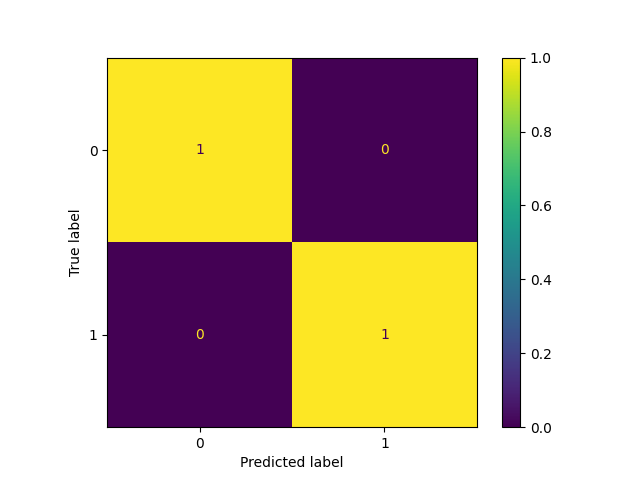
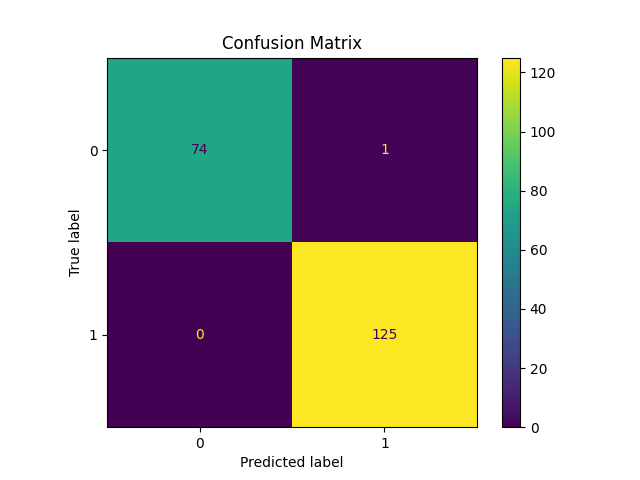
added AML visualizations

diff --git a/train_model.py b/train_model.py
@@ -1,9 +1,19 @@
 import pandas as pd
 import numpy as np
 import pickle
+import matplotlib.pyplot as plt
+import seaborn as sns
 
 from sklearn.model_selection import train_test_split
-from sklearn.metrics import accuracy_score
+from sklearn.metrics import (
+    accuracy_score,
+    confusion_matrix,
+    ConfusionMatrixDisplay,
+    RocCurveDisplay,
+    precision_score,
+    recall_score,
+    f1_score
+)
 
 # MODELS
 from sklearn.linear_model import LogisticRegression
@@ -37,7 +47,10 @@ y = data["risk"]
 
 # ---------------- SPLIT ----------------
 X_train, X_test, y_train, y_test = train_test_split(
-    X, y, test_size=0.2, random_state=42
+    X,
+    y,
+    test_size=0.2,
+    random_state=42
 )
 
 # ---------------- MODELS ----------------
@@ -49,27 +62,79 @@ models = {
 
 best_model = None
 best_accuracy = 0
+best_model_name = ""
 
-print("\nMODEL ACCURACIES:\n")
+print("\n================ MODEL ACCURACIES ================\n")
 
 # ---------------- TRAIN & TEST ----------------
 for name, model in models.items():
 
+    # TRAIN
     model.fit(X_train, y_train)
 
+    # PREDICT
     y_pred = model.predict(X_test)
 
+    # METRICS
     acc = accuracy_score(y_test, y_pred)
+    precision = precision_score(y_test, y_pred)
+    recall = recall_score(y_test, y_pred)
+    f1 = f1_score(y_test, y_pred)
 
-    print(f"{name}: {acc:.4f}")
+    print(f"\n{name}")
+    print(f"Accuracy : {acc:.4f}")
+    print(f"Precision: {precision:.4f}")
+    print(f"Recall   : {recall:.4f}")
+    print(f"F1 Score : {f1:.4f}")
 
     # SAVE BEST MODEL
     if acc > best_accuracy:
         best_accuracy = acc
         best_model = model
+        best_model_name = name
 
 # ---------------- SAVE BEST MODEL ----------------
 pickle.dump(best_model, open("model_new.pkl", "wb"))
 
-print("\nBest Model Saved Successfully!")
-print("Best Accuracy:", best_accuracy)
+print("\n==================================================")
+print(f"Best Model: {best_model_name}")
+print(f"Best Accuracy: {best_accuracy:.4f}")
+print("Best Model Saved Successfully!")
+print("==================================================")
+
+# ---------------- CONFUSION MATRIX ----------------
+y_pred = best_model.predict(X_test)
+
+cm = confusion_matrix(y_test, y_pred)
+
+disp = ConfusionMatrixDisplay(confusion_matrix=cm)
+disp.plot()
+
+plt.title("Confusion Matrix")
+plt.savefig("confusion_matrix.png")
+
+# ---------------- ROC CURVE ----------------
+RocCurveDisplay.from_estimator(best_model, X_test, y_test)
+
+plt.title("ROC Curve")
+plt.savefig("roc_curve.png")
+
+# ---------------- FEATURE IMPORTANCE ----------------
+if best_model_name == "Random Forest":
+
+    importances = best_model.feature_importances_
+
+    feature_names = X.columns
+
+    plt.figure(figsize=(10,5))
+
+    sns.barplot(
+        x=importances,
+        y=feature_names
+    )
+
+    plt.title("Feature Importance")
+
+    plt.savefig("feature_importance.png")
+
+print("\nGraphs Saved Successfully!")